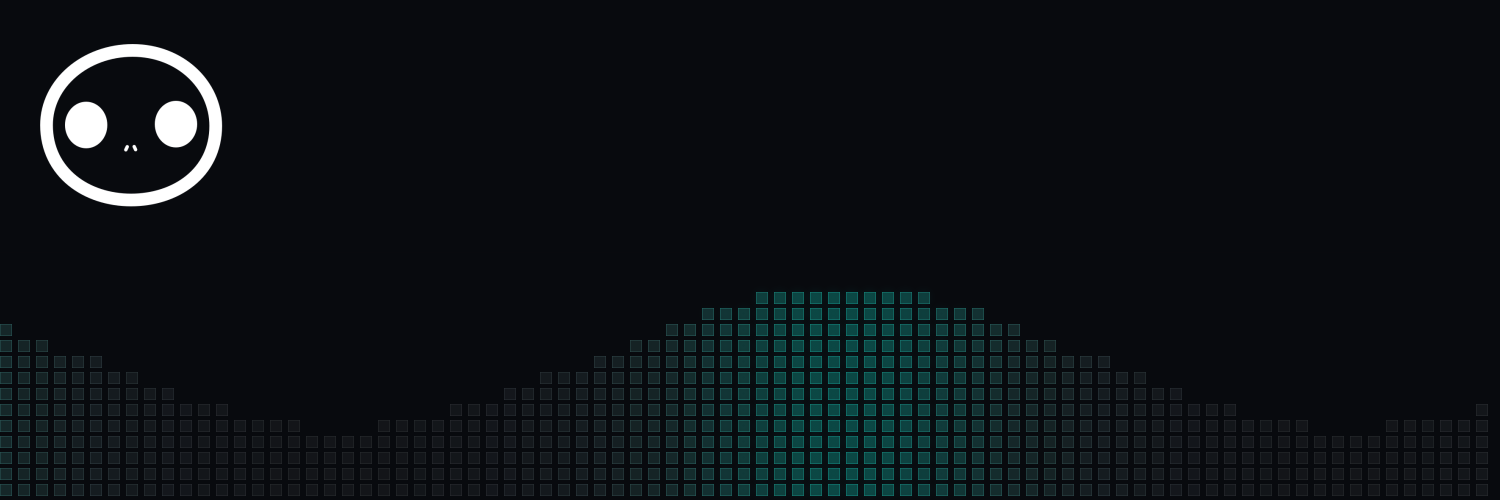
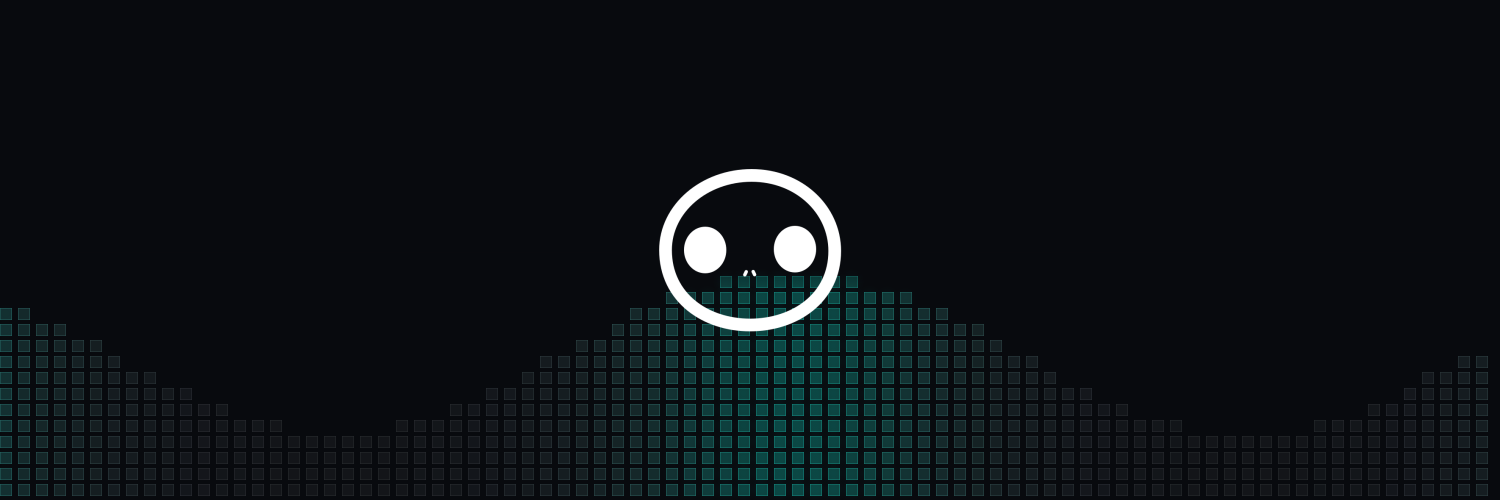
docs: home-hero centered + kill shiki token-row seam
- Regenerate /images/home-hero-{dark,light}.png with Echo centered on both
  axes so the wave forms a frame around the mark, and add `home-hero` class
  + scoped `.docs-content .home-hero { border:0 }` so the global img border
  rule no longer paints around the hero in dark mode.
- Drop `background-color` from `pre code span` rules. Round 1 only fixed the
  outer <pre> bg; the inner spans were still painting Shiki's theme bg
  (#fff / #24292e) on every token row, which is the seam shown in the
  screenshot. Token color alone is enough — the wrapper supplies the bg.

diff --git a/app/globals.css b/app/globals.css
@@ -20,15 +20,15 @@
     @apply outline-2 outline-offset-2 outline-secondary;
   }
 
-  /* Shiki dual-theme support — fumadocs generates CSS vars per token */
+  /* Shiki dual-theme support — fumadocs generates CSS vars per token.
+     No background-color on spans: the wrapper supplies the background, and
+     painting Shiki's theme bg on every token row reintroduces the seam. */
   pre code span {
     color: var(--shiki-light);
-    background-color: var(--shiki-light-bg);
   }
 
   .dark pre code span {
     color: var(--shiki-dark);
-    background-color: var(--shiki-dark-bg);
   }
 }
 
@@ -142,6 +142,10 @@
 
   .docs-content img[src*="banner-"] {
     @apply w-full border-0 mb-6;
+  }
+
+  .docs-content .home-hero {
+    @apply border-0;
   }
 
   .docs-content hr {
